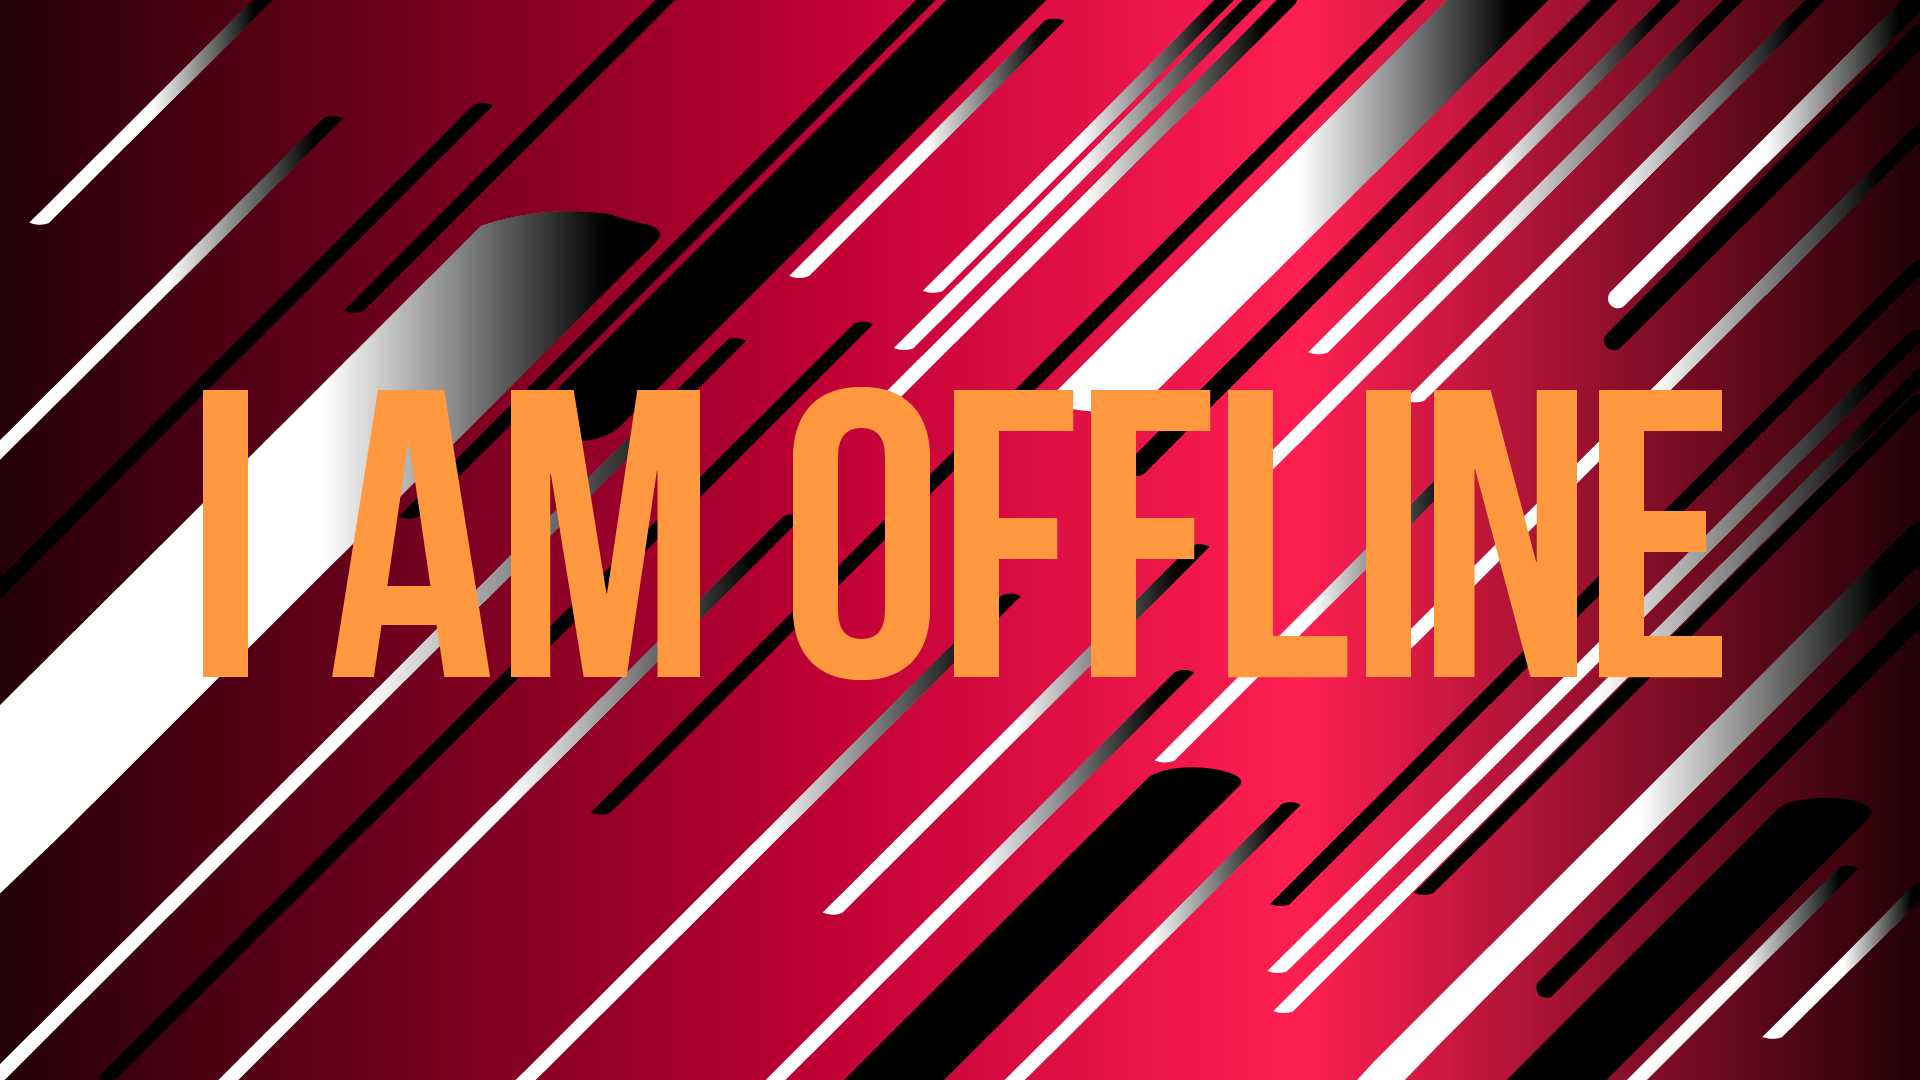
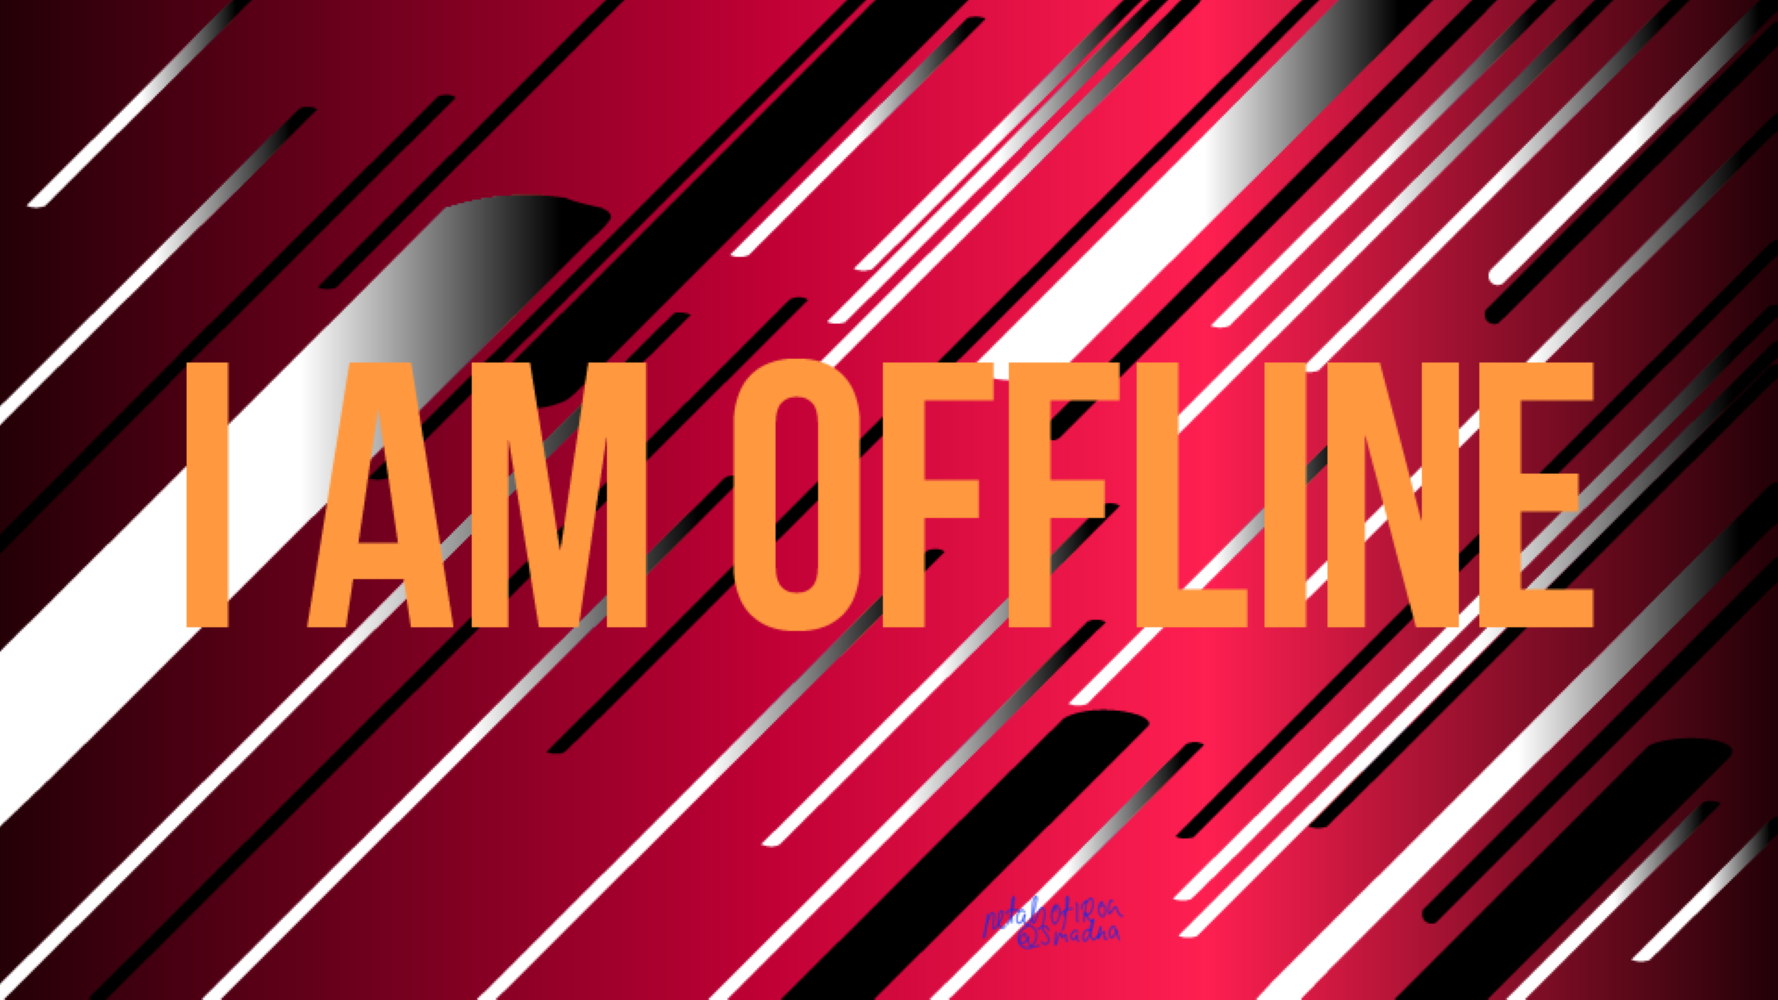
Added screens

diff --git a/index.html b/index.html
@@ -7533,7 +7533,7 @@
       <a class="proj-btn" href="images/twitch/Perfum/Screens/offline.png?v=f0876b29" target="_blank" rel="noopener" title="Twitch offline screen: Perfum offline">Perfum offline</a>
       <a class="proj-btn" href="images/twitch/Purple/Screens/offline.png?v=9058a8cd" target="_blank" rel="noopener" title="Twitch offline screen: Purple offline">Purple offline</a>
       <a class="proj-btn" href="images/twitch/Rose/Screens/offline.png?v=d1053fe7" target="_blank" rel="noopener" title="Twitch offline screen: Rose offline">Rose offline</a>
-      <a class="proj-btn" href="images/twitch/Slash/Screens/offline.png?v=2c02dba6" target="_blank" rel="noopener" title="Twitch offline screen: Slash offline">Slash offline</a>
+      <a class="proj-btn" href="images/twitch/Slash/Screens/offline.png?v=4c2b9922" target="_blank" rel="noopener" title="Twitch offline screen: Slash offline">Slash offline</a>
       <a class="proj-btn" href="images/twitch/Snake/Screens/offline.png?v=04cb868e" target="_blank" rel="noopener" title="Twitch offline screen: Snake offline">Snake offline</a>
       <a class="proj-btn" href="images/twitch/Strikeline/Screens/offline.png?v=a0ea8caf" target="_blank" rel="noopener" title="Twitch offline screen: Strikeline offline">Strikeline offline</a>
       <a class="proj-btn" href="images/twitch/Tessel/Screens/offline.png?v=a8f40e90" target="_blank" rel="noopener" title="Twitch offline screen: Tessel offline">Tessel offline</a>
